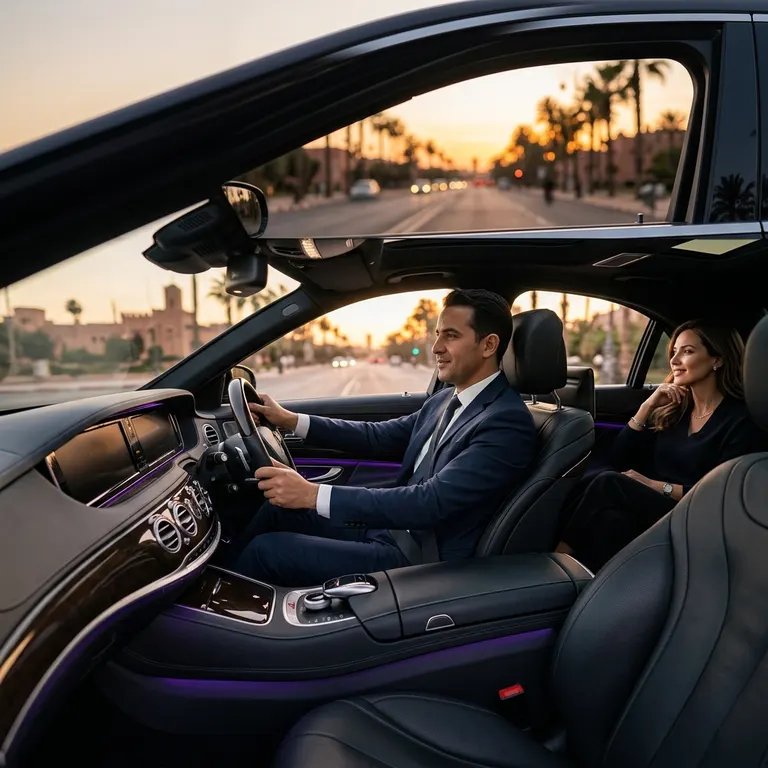
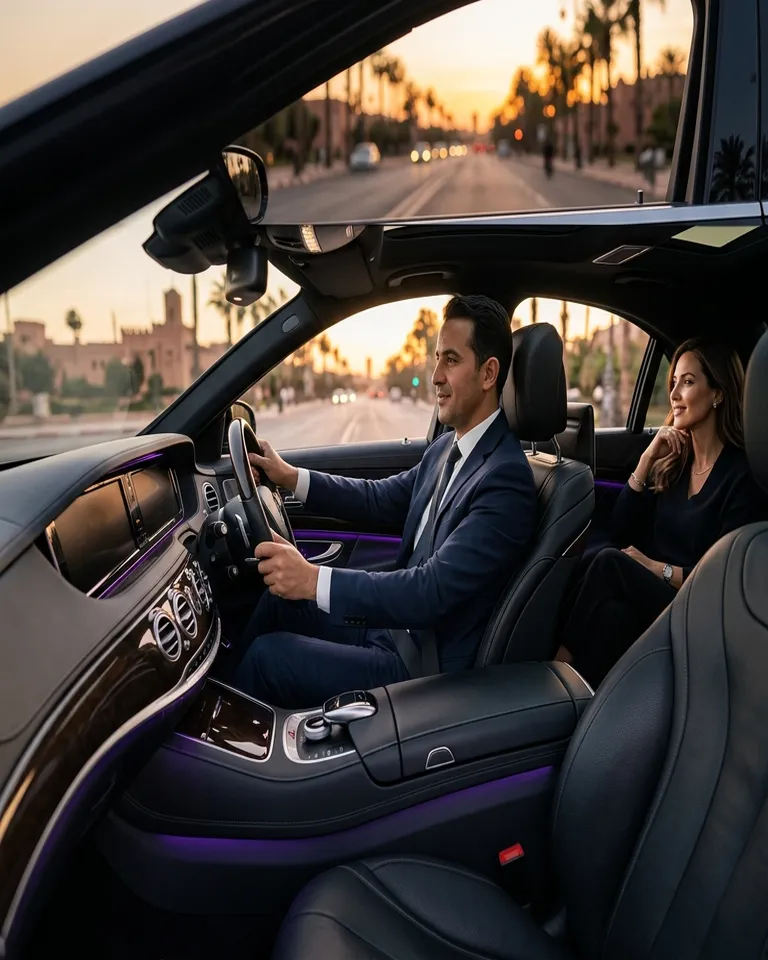
fix(website): finalize responsive typography and hero visual

diff --git a/apps/official-website/src/components/LegalModal.tsx b/apps/official-website/src/components/LegalModal.tsx
@@ -23,7 +23,7 @@ export const LegalModal: React.FC<LegalModalProps> = ({ type, lang, onClose }) =
               {type === 'terms' ? <FileText size={20} /> : <Shield size={20} />}
             </div>
             <div>
-              <h3 className="text-lg font-black text-white">
+              <h3 className="text-lg font-black text-slate-900 dark:text-white">
                 {type === 'terms'
                   ? (isAr ? 'مسودة شروط الخدمة والتعاقد' : 'Draft Terms of Service')
                   : (isAr ? 'مسودة سياسة الخصوصية وحماية البيانات' : 'Draft Privacy Policy')}
@@ -52,7 +52,7 @@ export const LegalModal: React.FC<LegalModalProps> = ({ type, lang, onClose }) =
                   ? 'تحدد هذه الوثيقة الشروط التجريبية والاسترشادية لاستخدام منصة Yalla VTC في المملكة المغربية. يتم التفاوض على أسعار الرحلات مباشرة بين الراكب والسائق بدون أي تدخل قسري في تحديد التعرفة من قبل المنصة.'
                   : 'This document defines the trial and indicative terms of use for the Yalla VTC platform in Morocco. Ride prices are negotiated directly between passenger and driver without platform fare fixing.'}
               </p>
-              <h4 className="text-sm font-bold text-white pt-2">
+              <h4 className="text-sm font-bold text-slate-900 dark:text-white pt-2">
                 {isAr ? '1. آلية التفاوض العادل (Counter-Bidding)' : '1. Fair Counter-Bidding Mechanism'}
               </h4>
               <p>
@@ -60,7 +60,7 @@ export const LegalModal: React.FC<LegalModalProps> = ({ type, lang, onClose }) =
                   ? 'يقوم الراكب باقتراح تعرفة الرحلة، ويحق للسائق قبول العرض أو تقديم عرض مضاد. العقد المبرم هو عقد مباشر بين الطرفين.'
                   : 'Passengers offer ride fares and drivers retain full freedom to accept or present counter-offers. The contract is agreed directly between both parties.'}
               </p>
-              <h4 className="text-sm font-bold text-white pt-2">
+              <h4 className="text-sm font-bold text-slate-900 dark:text-white pt-2">
                 {isAr ? '2. برنامج رصيد السائقين والحوافز' : '2. Driver Credit & Incentive Program Terms'}
               </h4>
               <p>
@@ -68,7 +68,7 @@ export const LegalModal: React.FC<LegalModalProps> = ({ type, lang, onClose }) =
                   ? 'يخضع عرض الرصيد التجريبي (10 MAD) والرصيد التحفيزي (حتى 600 MAD) لشروط الأهلية المعتمدة في البرنامج. يتم إضافة الرصيد التحفيزي إلى رصيد السائق داخل نظام Yalla VTC عند استيفاء إتمام 6 طلبات ناجحة خلال 15 يوماً، ولا يعتبر هذا الرصيد دخلاً نقدياً ثابتاً أو تحويلاً بنكياً مباشراً.'
                   : 'The 10 MAD Trial Credit and up to 600 MAD Promotional Credit are subject to program eligibility conditions. Credits are added to the driver balance inside Yalla VTC upon completing 6 successful rides within 15 days and do not constitute fixed cash income or direct bank transfers.'}
               </p>
-              <h4 className="text-sm font-bold text-white pt-2">
+              <h4 className="text-sm font-bold text-slate-900 dark:text-white pt-2">
                 {isAr ? '3. النزاهة والأمان وأكواد OTP' : '3. Integrity & OTP Verification Security'}
               </h4>
               <p>
@@ -84,7 +84,7 @@ export const LegalModal: React.FC<LegalModalProps> = ({ type, lang, onClose }) =
                   ? 'تلتزم منصة Yalla VTC بحماية البيانات الشخصية للمستخدمين والسائقين وفق القوانين المغربية لحماية المعطيات ذات الطابع الشخصي (القانون 09-08).'
                   : 'Yalla VTC is committed to protecting user and driver personal data in full compliance with Moroccan Law 09-08 on personal data protection.'}
               </p>
-              <h4 className="text-sm font-bold text-white pt-2">
+              <h4 className="text-sm font-bold text-slate-900 dark:text-white pt-2">
                 {isAr ? '1. البيانات المجمعة' : '1. Collected Personal Data'}
               </h4>
               <p>
@@ -92,7 +92,7 @@ export const LegalModal: React.FC<LegalModalProps> = ({ type, lang, onClose }) =
                   ? 'تشمل البيانات المجمعة: الاسم الكامل، رقم الهاتف، الموقع الجغرافي المباشر أثناء الرحلة، والوثائق الرسمية المرفوعة من قبل السائقين (رخصة السياقة، البطاقة الوطنية).'
                   : 'Collected data includes full name, phone number, real-time GPS telemetry during rides, and driver inspection documents (license, national ID).'}
               </p>
-              <h4 className="text-sm font-bold text-white pt-2">
+              <h4 className="text-sm font-bold text-slate-900 dark:text-white pt-2">
                 {isAr ? '2. حماية وتشفير البيانات' : '2. Data Security & Encryption'}
               </h4>
               <p>

diff --git a/apps/official-website/src/components/Navbar.tsx b/apps/official-website/src/components/Navbar.tsx
@@ -63,7 +63,7 @@ export const Navbar: React.FC<NavbarProps> = ({
               <Car size={18} />
             </div>
             <div className="flex flex-col leading-none">
-              <span className="text-lg font-black text-white tracking-tight">
+              <span className="text-lg font-black text-[#683EE6] dark:text-white tracking-tight">
                 YALLA<span className="text-purple-500">VTC</span>
               </span>
               <span className="text-[9px] text-slate-500 font-semibold tracking-widest uppercase">
@@ -79,7 +79,7 @@ export const Navbar: React.FC<NavbarProps> = ({
                 <button
                   key={link.label}
                   onClick={() => navigate(link.to!)}
-                  className="px-3 py-2 rounded-lg text-xs font-bold text-slate-300 hover:text-white hover:bg-slate-800/60 transition-all"
+                  className="px-3 py-2 rounded-lg text-xs font-bold text-slate-300 hover:text-[#683EE6] dark:hover:text-white hover:bg-slate-800/60 transition-all"
                 >
                   {link.label}
                 </button>
@@ -87,7 +87,7 @@ export const Navbar: React.FC<NavbarProps> = ({
                 <a
                   key={link.label}
                   href={link.href!}
-                  className="px-3 py-2 rounded-lg text-xs font-bold text-slate-300 hover:text-white hover:bg-slate-800/60 transition-all"
+                  className="px-3 py-2 rounded-lg text-xs font-bold text-slate-300 hover:text-[#683EE6] dark:hover:text-white hover:bg-slate-800/60 transition-all"
                 >
                   {link.label}
                 </a>
@@ -113,7 +113,7 @@ export const Navbar: React.FC<NavbarProps> = ({
               <button
                 type="button"
                 onClick={() => setIsLangOpen(!isLangOpen)}
-                className="flex items-center gap-1.5 px-3 py-1.5 rounded-xl bg-slate-900/80 border border-slate-800 text-xs font-bold text-slate-300 hover:border-slate-700 hover:text-white transition-all"
+                className="flex items-center gap-1.5 px-3 py-1.5 rounded-xl bg-slate-900/80 border border-slate-800 text-xs font-bold text-slate-300 hover:border-slate-700 hover:text-[#683EE6] dark:hover:text-white transition-all"
               >
                 <Globe size={14} className="text-purple-400" />
                 <span>{lang}</span>
@@ -157,7 +157,7 @@ export const Navbar: React.FC<NavbarProps> = ({
             <button
               type="button"
               onClick={() => setIsMobileMenuOpen(!isMobileMenuOpen)}
-              className="lg:hidden p-2 rounded-xl bg-slate-900/80 border border-slate-800 text-slate-300 hover:text-white transition-colors"
+              className="lg:hidden p-2 rounded-xl bg-slate-900/80 border border-slate-800 text-slate-300 hover:text-[#683EE6] dark:hover:text-white transition-colors"
             >
               {isMobileMenuOpen ? <X size={18} /> : <Menu size={18} />}
             </button>
@@ -172,7 +172,7 @@ export const Navbar: React.FC<NavbarProps> = ({
                 <button
                   key={link.label}
                   onClick={() => { navigate(link.to!); setIsMobileMenuOpen(false); }}
-                  className="w-full text-start px-3 py-2.5 rounded-xl text-sm font-bold text-slate-300 hover:text-white hover:bg-slate-800/60 transition-all"
+                  className="w-full text-start px-3 py-2.5 rounded-xl text-sm font-bold text-slate-300 hover:text-[#683EE6] dark:hover:text-white hover:bg-slate-800/60 transition-all"
                 >
                   {link.label}
                 </button>
@@ -181,7 +181,7 @@ export const Navbar: React.FC<NavbarProps> = ({
                   key={link.label}
                   href={link.href!}
                   onClick={() => setIsMobileMenuOpen(false)}
-                  className="block px-3 py-2.5 rounded-xl text-sm font-bold text-slate-300 hover:text-white hover:bg-slate-800/60 transition-all"
+                  className="block px-3 py-2.5 rounded-xl text-sm font-bold text-slate-300 hover:text-[#683EE6] dark:hover:text-white hover:bg-slate-800/60 transition-all"
                 >
                   {link.label}
                 </a>

diff --git a/apps/official-website/src/components/HeroSection.tsx b/apps/official-website/src/components/HeroSection.tsx
@@ -1,5 +1,5 @@
 import React from 'react';
-import { Smartphone, Car, Shield, ArrowLeft, ArrowRight, MapPin, Sparkles } from 'lucide-react';
+import { Smartphone, Car, Shield, ArrowLeft, ArrowRight, MapPin } from 'lucide-react';
 import { SupportedLang, Translations } from '../i18n/translations';
 
 interface HeroSectionProps {
@@ -51,12 +51,6 @@ export const HeroSection: React.FC<HeroSectionProps> = ({ lang }) => {
           {/* Text Content Column */}
           <div className={`lg:col-span-7 xl:col-span-6 space-y-8 text-center ${isAr ? 'lg:text-right' : 'lg:text-left'}`}>
 
-            {/* Badge */}
-            <div className="inline-flex items-center gap-2 px-4 py-2 rounded-full bg-purple-500/15 border border-purple-500/30 text-purple-400 text-xs font-black tracking-wide backdrop-blur-md">
-              <Sparkles size={14} />
-              <span>{t.badge}</span>
-            </div>
-
             {/* Title */}
             <h1 className="text-4xl sm:text-5xl lg:text-6xl xl:text-7xl font-black text-slate-900 dark:text-white tracking-tight leading-[1.08] drop-shadow-sm">
               {titleLines.map((line, i) => (
@@ -64,7 +58,7 @@ export const HeroSection: React.FC<HeroSectionProps> = ({ lang }) => {
                   {i === 0 ? line : (
                     <>
                       <br />
-                      <span className="bg-gradient-to-r from-purple-400 via-indigo-300 to-purple-500 bg-clip-text text-transparent">
+                      <span className="bg-gradient-to-r from-[#683EE6] via-indigo-600 to-purple-700 dark:from-purple-400 dark:via-indigo-300 dark:to-purple-500 bg-clip-text text-transparent">
                         {line}
                       </span>
                     </>
@@ -95,7 +89,7 @@ export const HeroSection: React.FC<HeroSectionProps> = ({ lang }) => {
 
               <a
                 href="#app-showcase"
-                className="inline-flex items-center gap-2.5 px-8 py-4 rounded-2xl bg-slate-900/80 hover:bg-slate-800 border border-slate-800 hover:border-slate-700 text-white font-black text-sm backdrop-blur-md transition-all hover:scale-105 hover:-translate-y-0.5"
+                className="inline-flex items-center gap-2.5 px-8 py-4 rounded-2xl bg-slate-900/80 hover:bg-slate-800 border border-slate-800 hover:border-slate-700 text-slate-900 dark:text-white font-black text-sm backdrop-blur-md transition-all hover:scale-105 hover:-translate-y-0.5"
               >
                 <Car size={18} className="text-purple-400" />
                 {t.exploreExperience}

diff --git a/apps/official-website/src/components/DriverExperienceSection.tsx b/apps/official-website/src/components/DriverExperienceSection.tsx
@@ -26,7 +26,7 @@ export const DriverExperienceSection: React.FC<DriverExperienceSectionProps> = (
           <div className="flex justify-center order-2 lg:order-1">
             <div className="p-6 rounded-3xl bg-slate-900/60 border border-slate-800 max-w-md w-full space-y-4">
               <div className="flex items-center justify-between border-b border-slate-800 pb-3">
-                <span className="text-xs font-black text-white">{isAr ? 'رحلة السائق في التطبيق' : 'Driver Workflow'}</span>
+                <span className="text-xs font-black text-slate-900 dark:text-white">{isAr ? 'رحلة السائق في التطبيق' : 'Driver Workflow'}</span>
                 <span className="text-[10px] font-bold text-emerald-400 px-2 py-0.5 rounded-full bg-emerald-500/10">Yalla VTC Driver</span>
               </div>
 
@@ -39,7 +39,7 @@ export const DriverExperienceSection: React.FC<DriverExperienceSectionProps> = (
                 <div key={i} className="flex items-start gap-3 p-3 rounded-xl bg-slate-950/60 border border-slate-800/60">
                   <span className="text-xs font-black text-emerald-400 bg-emerald-500/10 px-2 py-1 rounded-lg">{s.num}</span>
                   <div>
-                    <p className="text-xs font-black text-white">{s.title}</p>
+                    <p className="text-xs font-black text-slate-900 dark:text-white">{s.title}</p>
                     <p className="text-[11px] text-slate-400 mt-0.5">{s.desc}</p>
                   </div>
                 </div>
@@ -53,7 +53,7 @@ export const DriverExperienceSection: React.FC<DriverExperienceSectionProps> = (
               {t.badge}
             </span>
 
-            <h2 className="text-3xl sm:text-4xl font-black text-white tracking-tight leading-tight">
+            <h2 className="text-3xl sm:text-4xl font-black text-slate-900 dark:text-white tracking-tight leading-tight">
               {t.title}
             </h2>
 
@@ -67,7 +67,7 @@ export const DriverExperienceSection: React.FC<DriverExperienceSectionProps> = (
                   <div className="w-9 h-9 rounded-xl bg-slate-900 flex items-center justify-center mb-3">
                     {f.icon}
                   </div>
-                  <h3 className="text-sm font-black text-white mb-1">{f.title}</h3>
+                  <h3 className="text-sm font-black text-slate-900 dark:text-white mb-1">{f.title}</h3>
                   <p className="text-xs text-slate-400 font-medium leading-relaxed">{f.desc}</p>
                 </div>
               ))}

diff --git a/apps/official-website/src/components/PassengerExperienceSection.tsx b/apps/official-website/src/components/PassengerExperienceSection.tsx
@@ -28,7 +28,7 @@ export const PassengerExperienceSection: React.FC<PassengerExperienceSectionProp
               {t.badge}
             </span>
 
-            <h2 className="text-3xl sm:text-4xl font-black text-white tracking-tight leading-tight">
+            <h2 className="text-3xl sm:text-4xl font-black text-slate-900 dark:text-white tracking-tight leading-tight">
               {t.title}
             </h2>
 
@@ -42,7 +42,7 @@ export const PassengerExperienceSection: React.FC<PassengerExperienceSectionProp
                   <div className="w-9 h-9 rounded-xl bg-slate-900 flex items-center justify-center mb-3">
                     {f.icon}
                   </div>
-                  <h3 className="text-sm font-black text-white mb-1">{f.title}</h3>
+                  <h3 className="text-sm font-black text-slate-900 dark:text-white mb-1">{f.title}</h3>
                   <p className="text-xs text-slate-400 font-medium leading-relaxed">{f.desc}</p>
                 </div>
               ))}
@@ -53,7 +53,7 @@ export const PassengerExperienceSection: React.FC<PassengerExperienceSectionProp
           <div className="flex justify-center">
             <div className="p-6 rounded-3xl bg-slate-900/60 border border-slate-800 max-w-md w-full space-y-4">
               <div className="flex items-center justify-between border-b border-slate-800 pb-3">
-                <span className="text-xs font-black text-white">{isAr ? 'خطوات رحلة الراكب' : 'Passenger Ride Steps'}</span>
+                <span className="text-xs font-black text-slate-900 dark:text-white">{isAr ? 'خطوات رحلة الراكب' : 'Passenger Ride Steps'}</span>
                 <span className="text-[10px] font-bold text-purple-400 px-2 py-0.5 rounded-full bg-purple-500/10">Yalla VTC</span>
               </div>
 
@@ -66,7 +66,7 @@ export const PassengerExperienceSection: React.FC<PassengerExperienceSectionProp
                 <div key={i} className="flex items-start gap-3 p-3 rounded-xl bg-slate-950/60 border border-slate-800/60">
                   <span className="text-xs font-black text-purple-400 bg-purple-500/10 px-2 py-1 rounded-lg">{s.num}</span>
                   <div>
-                    <p className="text-xs font-black text-white">{s.title}</p>
+                    <p className="text-xs font-black text-slate-900 dark:text-white">{s.title}</p>
                     <p className="text-[11px] text-slate-400 mt-0.5">{s.desc}</p>
                   </div>
                 </div>

diff --git a/apps/official-website/src/components/FooterSection.tsx b/apps/official-website/src/components/FooterSection.tsx
@@ -25,7 +25,7 @@ export const FooterSection: React.FC<FooterSectionProps> = ({ lang, onOpenLegal 
               <div className="w-9 h-9 rounded-xl bg-gradient-to-br from-purple-600 to-indigo-600 flex items-center justify-center text-white">
                 <Car size={18} />
               </div>
-              <span className="text-lg font-black text-white tracking-tight">
+              <span className="text-lg font-black text-[#683EE6] dark:text-white tracking-tight">
                 YALLA<span className="text-purple-500">VTC</span>
               </span>
             </div>
@@ -35,7 +35,7 @@ export const FooterSection: React.FC<FooterSectionProps> = ({ lang, onOpenLegal 
 
           {/* Platform & App */}
           <div className={`space-y-3 ${isAr ? 'text-right' : 'text-left'}`}>
-            <h4 className="text-sm font-black text-white">{isAr ? 'التطبيق والمنصة' : 'App & Platform'}</h4>
+            <h4 className="text-sm font-black text-slate-900 dark:text-white">{isAr ? 'التطبيق والمنصة' : 'App & Platform'}</h4>
             <ul className="space-y-2 text-xs font-medium">
               <li><a href="#how-it-works" className="hover:text-purple-400 transition-colors">{nav.howItWorks}</a></li>
               <li><a href="#app-showcase" className="hover:text-purple-400 transition-colors">{nav.appShowcase}</a></li>
@@ -46,7 +46,7 @@ export const FooterSection: React.FC<FooterSectionProps> = ({ lang, onOpenLegal 
 
           {/* Pages & Journal */}
           <div className={`space-y-3 ${isAr ? 'text-right' : 'text-left'}`}>
-            <h4 className="text-sm font-black text-white">{isAr ? 'الصفحات والمحتوى' : 'Pages & Content'}</h4>
+            <h4 className="text-sm font-black text-slate-900 dark:text-white">{isAr ? 'الصفحات والمحتوى' : 'Pages & Content'}</h4>
             <ul className="space-y-2 text-xs font-medium">
               <li>
                 <button
@@ -78,7 +78,7 @@ export const FooterSection: React.FC<FooterSectionProps> = ({ lang, onOpenLegal 
 
           {/* Legal & Support */}
           <div className={`space-y-3 ${isAr ? 'text-right' : 'text-left'}`}>
-            <h4 className="text-sm font-black text-white">{t.legal}</h4>
+            <h4 className="text-sm font-black text-slate-900 dark:text-white">{t.legal}</h4>
             <ul className="space-y-2 text-xs font-medium">
               <li>
                 <button

diff --git a/apps/official-website/src/components/JournalSection.tsx b/apps/official-website/src/components/JournalSection.tsx
@@ -57,7 +57,7 @@ export const JournalSection: React.FC<JournalSectionProps> = ({ lang }) => {
             <span className="inline-block text-amber-400 text-xs font-black uppercase tracking-widest bg-amber-500/10 px-3 py-1.5 rounded-full border border-amber-500/20 mb-4">
               {t.badge}
             </span>
-            <h2 className="text-4xl sm:text-5xl font-black text-white tracking-tight leading-tight mb-3">
+            <h2 className="text-4xl sm:text-5xl font-black text-slate-900 dark:text-white tracking-tight leading-tight mb-3">
               {titleLines.map((line, i) => (
                 <React.Fragment key={i}>
                   {i === 0 ? line : (
@@ -122,7 +122,7 @@ export const JournalSection: React.FC<JournalSectionProps> = ({ lang }) => {
                   </span>
                 </div>
 
-                <h3 className="text-2xl sm:text-3xl font-black text-white leading-snug mb-4 group-hover:text-purple-300 transition-colors">
+                <h3 className="text-2xl sm:text-3xl font-black text-slate-900 dark:text-white leading-snug mb-4 group-hover:text-purple-600 dark:group-hover:text-purple-300 transition-colors">
                   {featuredArticle.title}
                 </h3>
 
@@ -157,7 +157,7 @@ export const JournalSection: React.FC<JournalSectionProps> = ({ lang }) => {
                       {getCategoryLabel(article.category)}
                     </span>
 
-                    <h4 className="text-base font-black text-white leading-snug mb-2 group-hover:text-purple-300 transition-colors">
+                    <h4 className="text-base font-black text-slate-900 dark:text-white leading-snug mb-2 group-hover:text-purple-600 dark:group-hover:text-purple-300 transition-colors">
                       {article.title}
                     </h4>
 

diff --git a/apps/official-website/src/components/ServicesSection.tsx b/apps/official-website/src/components/ServicesSection.tsx
@@ -61,7 +61,7 @@ export const ServicesSection: React.FC<ServicesSectionProps> = ({ lang }) => {
           <span className="inline-block text-purple-400 text-xs font-black uppercase tracking-widest bg-purple-500/10 px-3 py-1.5 rounded-full border border-purple-500/20 mb-4">
             {t.badge}
           </span>
-          <h2 className="text-4xl sm:text-5xl font-black text-white tracking-tight leading-tight mb-4">
+          <h2 className="text-4xl sm:text-5xl font-black text-slate-900 dark:text-white tracking-tight leading-tight mb-4">
             {titleLines.map((line, i) => (
               <React.Fragment key={i}>
                 {i === 0 ? line : (
@@ -102,7 +102,7 @@ export const ServicesSection: React.FC<ServicesSectionProps> = ({ lang }) => {
               </div>
 
               <div className="p-6 sm:p-8 space-y-4">
-                <h3 className="text-2xl font-black text-white">
+                <h3 className="text-2xl font-black text-slate-900 dark:text-white">
                   {s.title}
                 </h3>
                 <p className="text-xs sm:text-sm text-slate-400 font-medium leading-relaxed">
@@ -130,7 +130,7 @@ export const ServicesSection: React.FC<ServicesSectionProps> = ({ lang }) => {
                 {f.icon}
               </div>
               <div>
-                <h3 className="text-base font-black text-white mb-1.5">{f.title}</h3>
+                <h3 className="text-base font-black text-slate-900 dark:text-white mb-1.5">{f.title}</h3>
                 <p className="text-sm text-slate-400 font-medium leading-relaxed">{f.desc}</p>
               </div>
             </div>

diff --git a/apps/official-website/src/components/OneAppShowcaseSection.tsx b/apps/official-website/src/components/OneAppShowcaseSection.tsx
@@ -23,7 +23,7 @@ export const OneAppShowcaseSection: React.FC<OneAppShowcaseSectionProps> = ({ la
             <Sparkles size={14} />
             <span>{t.badge}</span>
           </div>
-          <h2 className="text-4xl sm:text-5xl lg:text-6xl font-black text-white tracking-tight leading-tight mb-4">
+          <h2 className="text-4xl sm:text-5xl lg:text-6xl font-black text-slate-900 dark:text-white tracking-tight leading-tight mb-4">
             {t.title.split('\n').map((line, i) => (
               <React.Fragment key={i}>
                 {i === 0 ? line : (
@@ -221,7 +221,7 @@ export const OneAppShowcaseSection: React.FC<OneAppShowcaseSectionProps> = ({ la
               <span>{activeMode === 'passenger' ? t.passengerTab : t.driverTab}</span>
             </div>
 
-            <h3 className="text-3xl sm:text-4xl font-black text-white tracking-tight leading-tight">
+            <h3 className="text-3xl sm:text-4xl font-black text-slate-900 dark:text-white tracking-tight leading-tight">
               {activeMode === 'passenger' ? t.passengerTitle : t.driverTitle}
             </h3>
 
@@ -241,7 +241,7 @@ export const OneAppShowcaseSection: React.FC<OneAppShowcaseSectionProps> = ({ la
                     {f.icon}
                   </div>
                   <div>
-                    <h4 className="text-sm font-black text-white mb-0.5">{f.title}</h4>
+                    <h4 className="text-sm font-black text-slate-900 dark:text-white mb-0.5">{f.title}</h4>
                     <p className="text-xs text-slate-400 font-medium leading-relaxed">{f.desc}</p>
                   </div>
                 </div>

diff --git a/apps/official-website/src/components/SafetySection.tsx b/apps/official-website/src/components/SafetySection.tsx
@@ -62,7 +62,7 @@ export const SafetySection: React.FC<SafetySectionProps> = ({ lang }) => {
           <span className="inline-block text-purple-400 text-xs font-black uppercase tracking-widest bg-purple-500/10 px-3 py-1.5 rounded-full border border-purple-500/20 mb-4">
             {t.badge}
           </span>
-          <h2 className="text-4xl sm:text-5xl font-black text-white tracking-tight leading-tight mb-4">
+          <h2 className="text-4xl sm:text-5xl font-black text-slate-900 dark:text-white tracking-tight leading-tight mb-4">
             {titleLines.map((line, i) => (
               <React.Fragment key={i}>
                 {i === 0 ? line : (
@@ -119,7 +119,7 @@ export const SafetySection: React.FC<SafetySectionProps> = ({ lang }) => {
               <div className="w-10 h-10 rounded-xl bg-slate-800/80 flex items-center justify-center mb-4 group-hover:scale-110 transition-transform">
                 {item.icon}
               </div>
-              <h3 className="text-sm font-black text-white mb-2">{item.title}</h3>
+              <h3 className="text-sm font-black text-slate-900 dark:text-white mb-2">{item.title}</h3>
               <p className="text-xs text-slate-400 font-medium leading-relaxed">{item.desc}</p>
             </div>
           ))}

diff --git a/apps/official-website/src/components/FaqSection.tsx b/apps/official-website/src/components/FaqSection.tsx
@@ -27,7 +27,7 @@ export const FaqSection: React.FC<FaqSectionProps> = ({ lang }) => {
           <span className="inline-block text-purple-400 text-xs font-black uppercase tracking-widest bg-purple-500/10 px-3 py-1.5 rounded-full border border-purple-500/20 mb-4">
             {t.badge}
           </span>
-          <h2 className="text-4xl sm:text-5xl font-black text-white tracking-tight mb-4">
+          <h2 className="text-4xl sm:text-5xl font-black text-slate-900 dark:text-white tracking-tight mb-4">
             {t.title}
           </h2>
           <p className="text-slate-400 font-medium leading-relaxed">
@@ -51,7 +51,7 @@ export const FaqSection: React.FC<FaqSectionProps> = ({ lang }) => {
                 onClick={() => setOpenIndex(openIndex === i ? null : i)}
                 className={`w-full flex items-center justify-between gap-4 px-6 py-4 text-${isAr ? 'right' : 'left'}`}
               >
-                <span className="text-sm font-black text-white flex-1">{item.q}</span>
+                <span className="text-sm font-black text-slate-900 dark:text-white flex-1">{item.q}</span>
                 <ChevronDown
                   size={18}
                   className={`text-slate-400 flex-shrink-0 transition-transform duration-200 ${

diff --git a/apps/official-website/src/components/HowItWorksSection.tsx b/apps/official-website/src/components/HowItWorksSection.tsx
@@ -50,7 +50,7 @@ export const HowItWorksSection: React.FC<HowItWorksSectionProps> = ({ lang }) =>
           <span className="inline-block text-purple-400 text-xs font-black uppercase tracking-widest mb-4 bg-purple-500/10 px-3 py-1.5 rounded-full border border-purple-500/20">
             {t.badge}
           </span>
-          <h2 className="text-4xl sm:text-5xl font-black text-white tracking-tight leading-tight mb-4">
+          <h2 className="text-4xl sm:text-5xl font-black text-slate-900 dark:text-white tracking-tight leading-tight mb-4">
             {t.title}
           </h2>
           <p className="text-slate-400 text-base font-medium leading-relaxed">
@@ -86,7 +86,7 @@ export const HowItWorksSection: React.FC<HowItWorksSectionProps> = ({ lang }) =>
               </div>
 
               {/* Title */}
-              <h3 className="text-sm font-black text-white leading-snug mb-2">
+              <h3 className="text-sm font-black text-slate-900 dark:text-white leading-snug mb-2">
                 {step.title}
               </h3>
 
